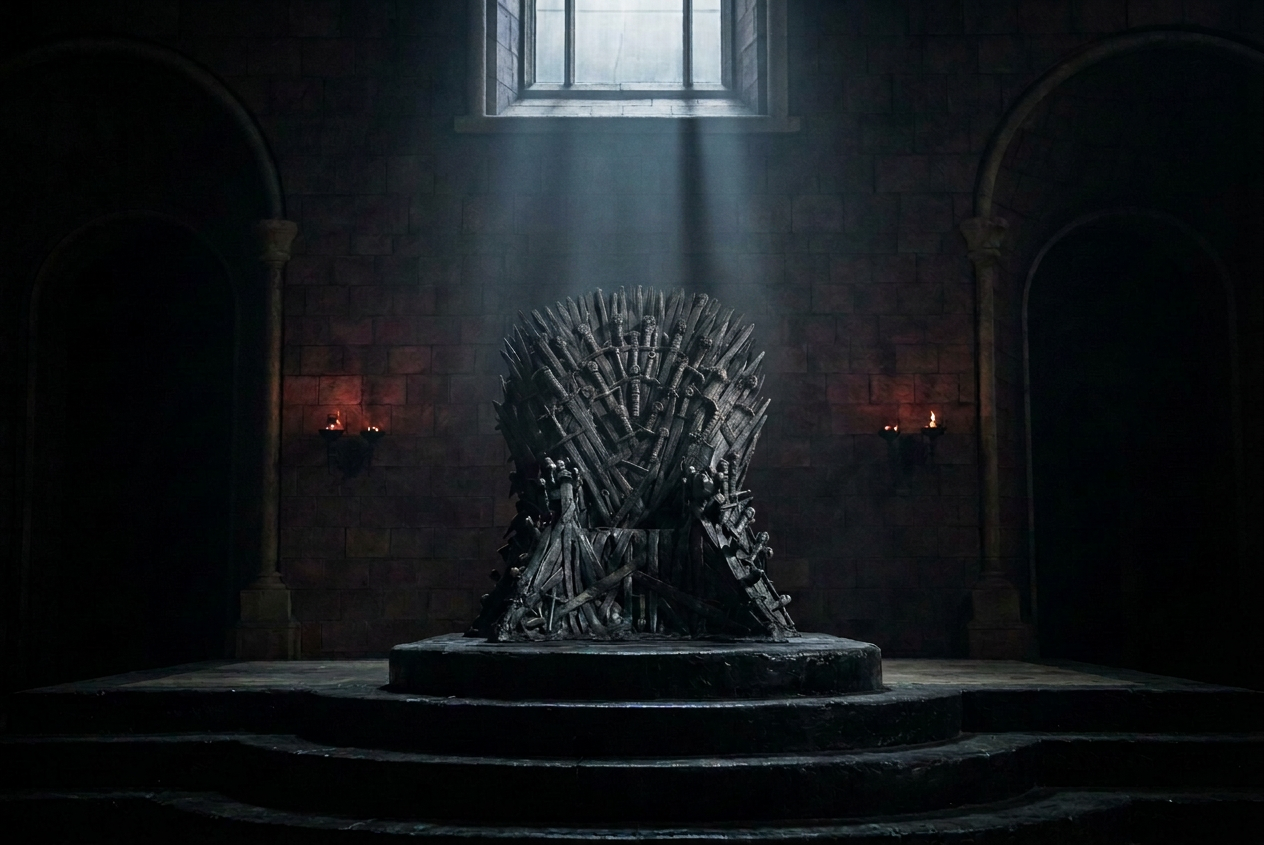
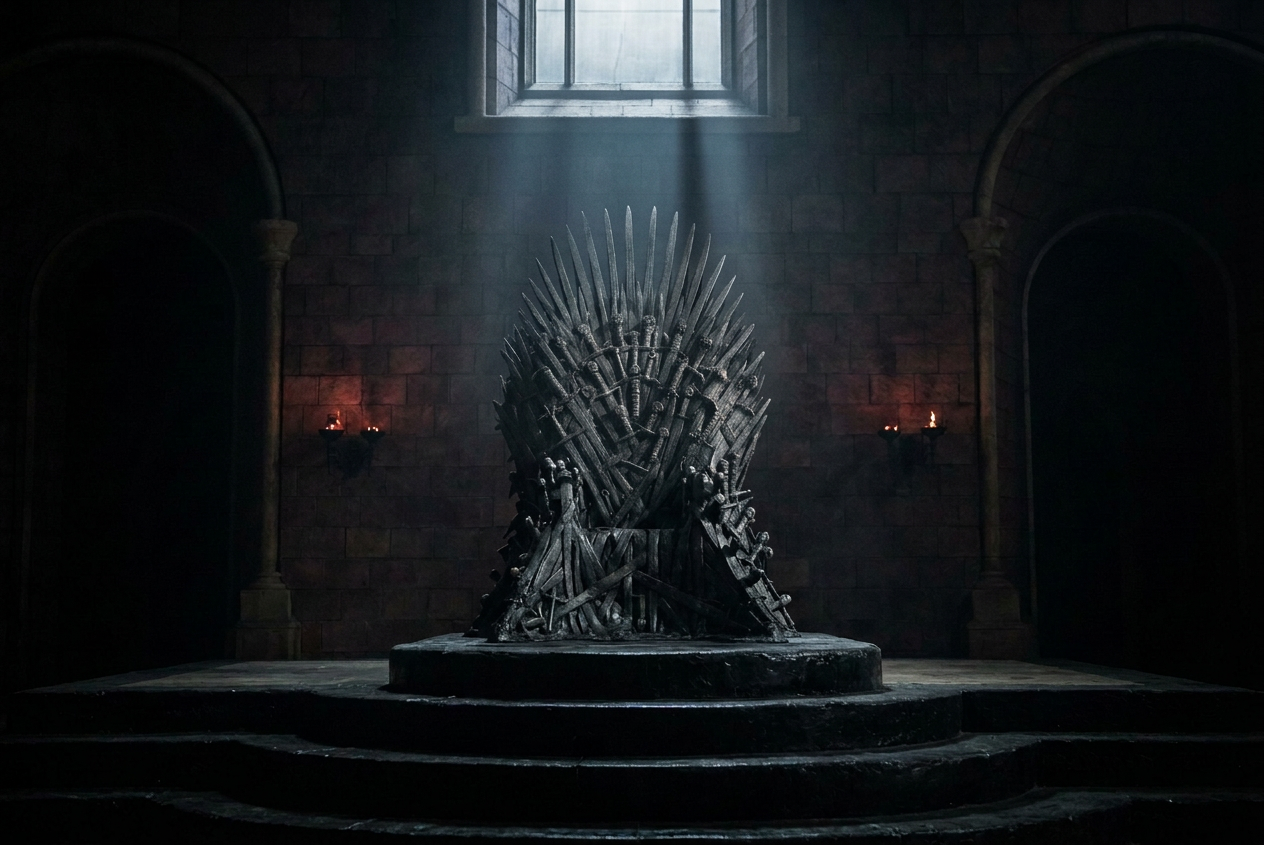
fix

Changed region(s): [[0.432, 0.2462, 0.5862, 0.3692]]

diff --git a/throne-photo.html b/throne-photo.html
@@ -13,8 +13,9 @@
     html,body{width:100%;height:100%;margin:0;overflow:hidden;background:#08090b;color:#eee7d7}
     body{font-family:Georgia,serif;user-select:none;-webkit-tap-highlight-color:transparent}
     #sceneImage,#swords{position:absolute;inset:0;width:100%;height:100%}
-    #sceneImage{object-fit:cover;object-position:center center}
-    #swords{overflow:visible}
+    #sceneImage{object-fit:cover;object-position:center center;animation:sceneFade .65s ease-out both}
+    #swords{overflow:visible;pointer-events:none}
+    @keyframes sceneFade{from{opacity:0}to{opacity:1}}
     header{position:absolute;z-index:2;top:max(env(safe-area-inset-top),12px);left:0;right:0;padding:12px 16px 20px;text-align:center;pointer-events:none;background:linear-gradient(180deg,rgba(5,7,9,.76),rgba(5,7,9,.28) 68%,transparent)}
     h1{margin:0;font:700 clamp(1.45rem,4.6vw,2.8rem)/1.08 Cinzel,Georgia,serif;letter-spacing:.08em;color:#e7dfce;text-shadow:0 2px 14px #000,0 0 25px #000}
     .rule{width:min(250px,54vw);height:1px;margin:9px auto 7px;background:linear-gradient(90deg,transparent,#c8a86c,transparent);opacity:.8}
@@ -23,16 +24,13 @@
     #hint.warn{color:#df8c83}
     #confirmHouse{pointer-events:auto;margin:9px auto 0;padding:8px 17px;border:1px solid #c8a86caa;border-radius:999px;background:#0b0d10e8;color:#ebd8ad;font:700 .68rem Cinzel,Georgia,serif;letter-spacing:.12em;text-transform:uppercase;box-shadow:0 4px 18px #0009}
     #confirmHouse[hidden]{display:none}
-    .sword-select{cursor:pointer;outline:none;--c:#c8a86c}
-    .sword-select.locked{cursor:not-allowed;opacity:.34;filter:saturate(.45)}
-    .sword-select.mode-inactive{opacity:.29;pointer-events:none}
-    .sword-select .in{transform-box:fill-box;transform-origin:50% 100%;animation:swordRise .88s cubic-bezier(.18,.8,.22,1) both;animation-delay:var(--delay,0s);transition:translate .35s cubic-bezier(.2,.8,.2,1),scale .35s,filter .3s}
-    @keyframes swordRise{from{opacity:0;translate:0 125px;scale:.78}to{opacity:1;translate:0 0;scale:1}}
-    .sword-select:hover .in,.sword-select:focus-visible .in,.sword-select.preview .in{translate:0 -22px;filter:drop-shadow(0 0 9px var(--c))}
-    .sword-select.picked .in{translate:0 -40px;filter:drop-shadow(0 0 15px var(--c))}
-    .lingering{opacity:.34;pointer-events:none;animation:lingerIn 1.1s ease-out both;animation-delay:var(--delay,1s)}
-    .lingering .in{transform-box:fill-box;transform-origin:50% 100%;animation:swordRise 1.1s cubic-bezier(.18,.8,.22,1) both;animation-delay:var(--delay,1s)}
-    @keyframes lingerIn{from{opacity:0}to{opacity:.34}}
+    .sword-select{cursor:pointer;outline:none;--c:#c8a86c;pointer-events:auto}
+    .sword-select.locked{cursor:not-allowed;opacity:.35}
+    .sword-select.mode-inactive{opacity:.24;pointer-events:none}
+    .blade-hit{fill:none;stroke:transparent;stroke-width:25;stroke-linecap:round;pointer-events:stroke}
+    .blade-glint{fill:none;stroke:var(--c);stroke-width:1.2;stroke-linecap:round;opacity:0;filter:drop-shadow(0 0 3px var(--c));transition:opacity .22s ease,stroke-width .22s ease}
+    .sword-select:hover .blade-glint,.sword-select:focus-visible .blade-glint,.sword-select.preview .blade-glint{opacity:.7;stroke-width:2}
+    .sword-select.picked .blade-glint{opacity:.84;stroke-width:2.2}
     .mode-pin-panel{position:absolute;z-index:5;top:50%;left:50%;width:min(340px,calc(100vw - 36px));transform:translate(-50%,-50%);padding:24px 22px 20px;border:1px solid #d9be8770;border-top:2px solid #c8a86c;border-radius:10px;background:rgba(13,15,18,.96);box-shadow:0 16px 50px #000c;text-align:center;color:#eee7d7;font-family:Cinzel,Georgia,serif}
     .mode-pin-panel[hidden]{display:none}
     .mode-pin-panel label{display:block;margin-bottom:10px;color:#c8a86c;font-size:11px;letter-spacing:.19em}
@@ -44,26 +42,18 @@
     body.mobile-device h1{font-size:clamp(1.25rem,6vw,1.8rem)}
     body.mobile-device #w{font-size:1rem}
     body.mobile-device #hint{font-size:.6rem;letter-spacing:.11em}
-    @media(prefers-reduced-motion:reduce){.sword-select .in,.lingering{animation:none}.sword-select .in{transition:none}header{transition:none}}
+    @media(prefers-reduced-motion:reduce){#sceneImage{animation:none}.blade-glint,header{transition:none}}
   </style>
 </head>
 <body>
-  <img id="sceneImage" src="./assets/throne-photo-scene.png" alt="The Iron Throne in a shadowed stone hall">
+  <img id="sceneImage" src="./assets/throne-photo-scene.png?v=2" alt="The Iron Throne in a shadowed stone hall with eight sword blades rising from the crown">
   <header>
     <h1 id="n">War of Westeros</h1><div class="rule"></div><p id="w">Choose your path</p>
     <small id="hint">Choose a sword to host or join</small>
     <button id="confirmHouse" type="button" hidden>Confirm choice</button>
   </header>
   <svg id="swords" viewBox="0 0 1264 845" preserveAspectRatio="xMidYMid slice" role="group" aria-label="Iron Throne sword choices">
-    <defs>
-      <linearGradient id="bladeMetal" x1="0" y1="0" x2="1" y2="0"><stop stop-color="#202428"/><stop offset=".2" stop-color="#737c81"/><stop offset=".42" stop-color="#c0c6c6"/><stop offset=".56" stop-color="#565e63"/><stop offset=".8" stop-color="#939b9c"/><stop offset="1" stop-color="#252a2e"/></linearGradient>
-      <linearGradient id="bladeEdge" x1="0" y1="0" x2="1" y2="0"><stop stop-color="#899196" stop-opacity=".1"/><stop offset=".48" stop-color="#d9ddda" stop-opacity=".8"/><stop offset="1" stop-color="#899196" stop-opacity=".1"/></linearGradient>
-      <filter id="bladeShadow" x="-70%" y="-30%" width="240%" height="170%"><feGaussianBlur stdDeviation="3"/></filter>
-      <clipPath id="throneFront" clipPathUnits="userSpaceOnUse"><path d="M430 845V370Q465 352 487 335Q507 320 521 308Q540 302 555 293Q574 287 590 294L618 285 635 281 654 289Q672 286 688 299Q707 304 722 318Q744 331 760 351L800 386V845Z"/></clipPath>
-    </defs>
-    <g id="lingeringSwords" aria-hidden="true"></g>
     <g id="choiceSwords"></g>
-    <image href="./assets/throne-photo-scene.png" x="0" y="0" width="1264" height="845" preserveAspectRatio="none" clip-path="url(#throneFront)" pointer-events="none" aria-hidden="true"/>
   </svg>
   <form id="modePinPanel" class="mode-pin-panel" hidden>
     <label for="modePinInput">ENTER GAME PIN</label>
@@ -85,22 +75,18 @@
       {key:'arryn',name:'House Arryn',motto:'As High as Honor',color:'#6aa3e0'}
     ].map(h=>({...h,status:'open',note:''}));
     const ENTRY_CHOICES={3:{mode:'host',name:'Host a game',motto:'Create a new game'},4:{mode:'join',name:'Join a game',motto:'Enter a four-character PIN'}};
-    const HOUSE_X=[520,552,584,616,648,680,712,744],HOUSE_ANGLE=[-13,-10,-7,-4,4,7,10,13],BLADE_LENGTH=[108,118,126,134,134,126,118,108];
+    const BLADE_LINES=['M550 235L575 318','M582 213L596 319','M605 207L615 320','M628 203L628 320','M653 205L653 320','M676 210L668 320','M695 225L685 320','M720 238L700 320'];
     const n=document.getElementById('n'),w=document.getElementById('w'),hint=document.getElementById('hint'),root=document.documentElement;
     const confirmHouse=document.getElementById('confirmHouse'),modePinPanel=document.getElementById('modePinPanel');
     const modePinInput=document.getElementById('modePinInput'),pinError=document.getElementById('pinError');
-    const choiceSwords=document.getElementById('choiceSwords'),lingeringSwords=document.getElementById('lingeringSwords');
+    const choiceSwords=document.getElementById('choiceSwords');
     const inFrame=window.parent!==window,normHouse=v=>String(v||'').toLowerCase().replace(/^house\s+/,'').trim();
     let entryMode=new URLSearchParams(location.search).get('mode')==='entry',picked=-1,previewed=-1;
     const setHint=(text,warn=false)=>{hint.textContent=text;hint.classList.toggle('warn',warn)};
     const escapeHtml=value=>String(value).replace(/[&<>"']/g,char=>({'&':'&amp;','<':'&lt;','>':'&gt;','"':'&quot;',"'":'&#39;'}[char]));
     function houseAt(i){return H[i]}
-    function bladeMarkup(length,index){const top=-length,wear1=-Math.round(length*(.34+(index%3)*.035)),wear2=-Math.round(length*(.66-(index%2)*.04));return `<g class="blade-metal"><path d="M0 ${top} 2 ${top+9} 7 ${top+22} 5.5 ${top+27} 7 -20 11 0 5 4 0 -3 -5 4 -11 0 -7 -20 -5.5 ${top+27} -7 ${top+22} -2 ${top+9}Z" fill="#080a0c" opacity=".62" transform="translate(2 3)" filter="url(#bladeShadow)"/><path d="M0 ${top} 2 ${top+9} 7 ${top+22} 5.5 ${top+27} 7 -20 11 0 5 4 0 -3 -5 4 -11 0 -7 -20 -5.5 ${top+27} -7 ${top+22} -2 ${top+9}Z" fill="url(#bladeMetal)" stroke="#171b1e" stroke-width="1.7" stroke-linejoin="round"/><path d="M0 ${top+5} 2 ${top+20} 2.5 ${wear1} 0 -15Z" fill="url(#bladeEdge)" opacity=".84"/><path d="M0 ${top+18}V-22" fill="none" stroke="#282e32" stroke-width="1.4" opacity=".9"/><path d="M-2 ${top+28} 0 ${top+32} 2 ${top+28}M-2 ${wear2} 1 ${wear2+2} 3 ${wear2-1}M-3 -58 -1 -55 2 -57" fill="none" stroke="#d3d7d5" stroke-width=".8" opacity=".68"/><path d="M-4 ${wear1}l2 2 3-3M3 ${wear2-12}l-2 3 3 1" fill="none" stroke="#242a2e" stroke-width="1.1" opacity=".85"/><path d="M-5 ${top+39}Q0 ${top+36} 5 ${top+39}M-5 -42Q0 -45 5 -42" fill="none" stroke="#c0c7c8" stroke-opacity=".32" stroke-width=".7"/></g>`}
     function drawSwords(){
-      lingeringSwords.innerHTML=[
-        [500,350,-11,91,0],[635,354,1,82,1],[770,350,11,91,2]
-      ].map(([x,y,a,length,i])=>`<g class="lingering" style="--delay:${(1.05+i*.2).toFixed(2)}s" transform="translate(${x} ${y}) rotate(${a})">${bladeMarkup(length,i)}</g>`).join('');
-      choiceSwords.innerHTML=H.map((house,i)=>`<g class="sword-select" tabindex="0" data-i="${i}" style="--c:${house.color};--delay:${(i*.095).toFixed(2)}s" transform="translate(${HOUSE_X[i]} 335) rotate(${HOUSE_ANGLE[i]})" role="button" aria-label="${escapeHtml(house.name)}"><g class="in">${bladeMarkup(BLADE_LENGTH[i],i)}</g><path d="M0 ${-BLADE_LENGTH[i]}V5" fill="none" stroke="transparent" stroke-width="28" pointer-events="stroke"/></g>`).join('');
+      choiceSwords.innerHTML=H.map((house,i)=>`<g class="sword-select" tabindex="0" data-i="${i}" style="--c:${house.color}" role="button" aria-label="${escapeHtml(house.name)}"><path class="blade-glint" d="${BLADE_LINES[i]}" pointer-events="none"/><path class="blade-hit" d="${BLADE_LINES[i]}"/></g>`).join('');
       bindSwords();
     }
     function show(i){const house=houseAt(i),choice=entryMode?ENTRY_CHOICES[i]:null;n.textContent=choice?.name||house.name;w.textContent=choice?.motto||house.motto;root.style.setProperty('--c',house.color);

diff --git a/index.html b/index.html
@@ -29,7 +29,7 @@
 
   <!-- Step 1: house selection. Step 2: name. Step 3: waiting room. Step 4: game. -->
   <section id="throneScreen" class="throne-screen" aria-label="War of Westeros throne selection">
-    <iframe id="throneFrame" src="./throne-photo.html?mode=entry&amp;v=2" title="War of Westeros throne selection"></iframe>
+    <iframe id="throneFrame" src="./throne-photo.html?mode=entry&amp;v=3" title="War of Westeros throne selection"></iframe>
   </section>
 
   <main id="loginScreen" class="login-wrap" hidden>

diff --git a/app.js b/app.js
@@ -27,7 +27,7 @@
   const $ = id => document.getElementById(id);
   function setThronePage(mode) {
     const frame = $('throneFrame');
-    if (frame) frame.src = mode === 'entry' ? './throne-photo.html?mode=entry&v=2' : './throne-photo.html?v=2';
+    if (frame) frame.src = mode === 'entry' ? './throne-photo.html?mode=entry&v=3' : './throne-photo.html?v=3';
   }
   function transitionThrone(mode) {
     const frame = $('throneFrame');
